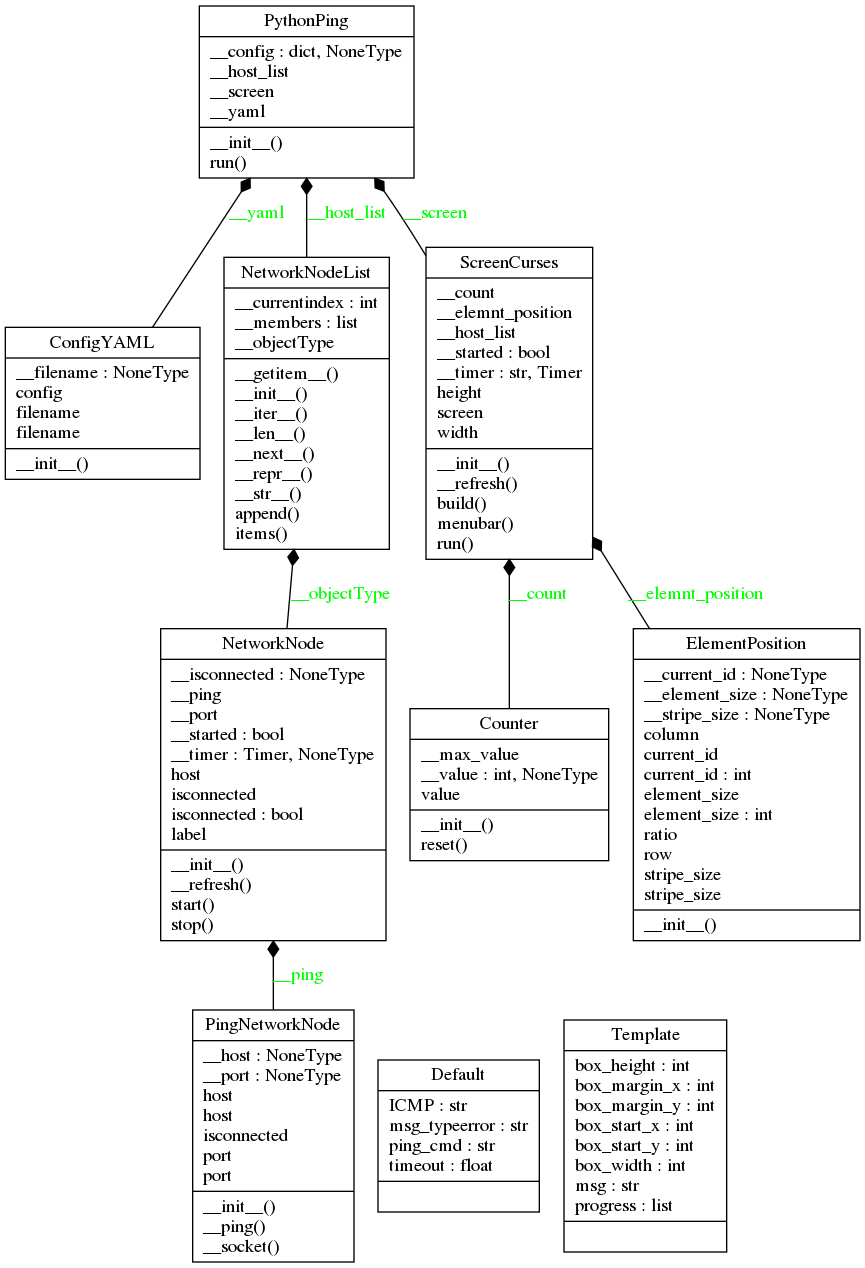
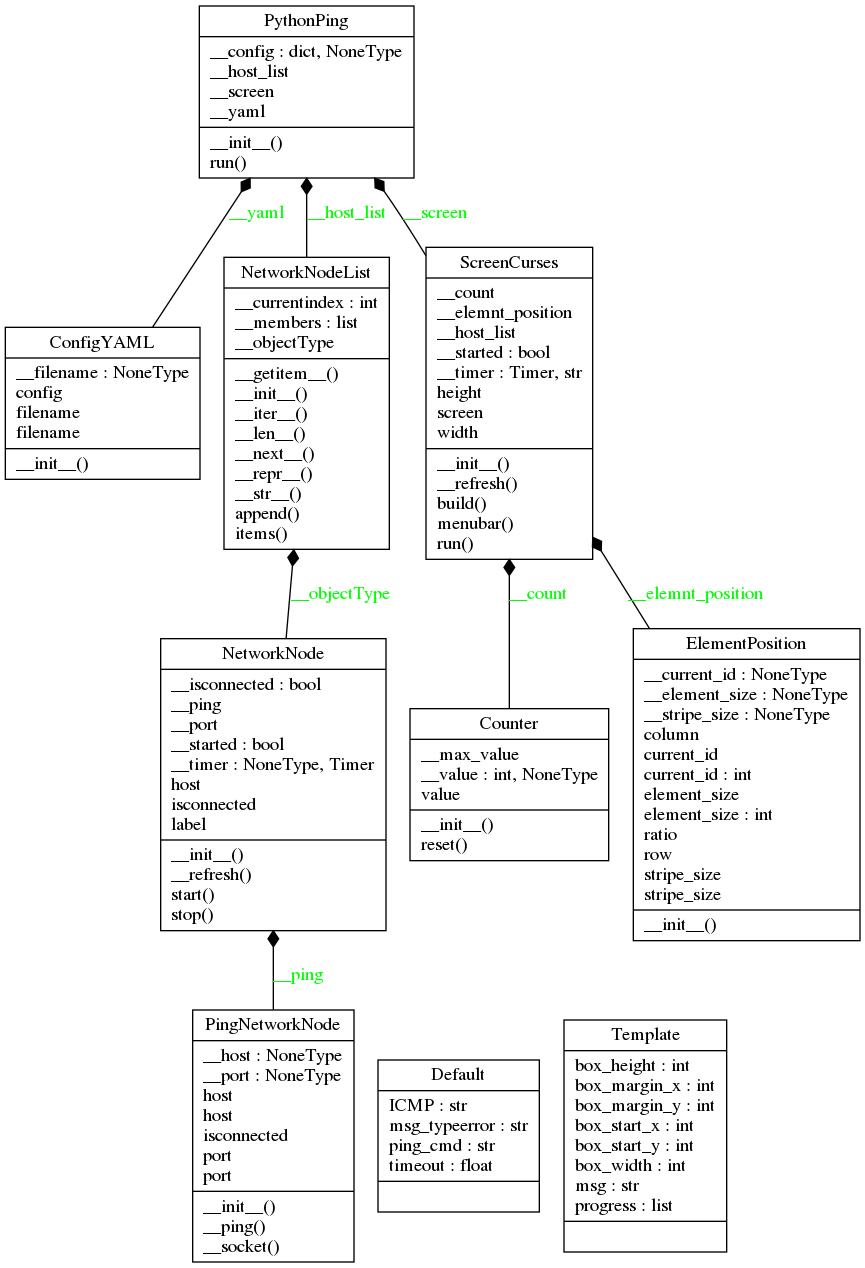
remove @isconnected.setter

Changed region(s): [[0.1873, 0.4921, 0.437, 0.7382], [0.5931, 0.2768, 0.6555, 0.3076], [0.3121, 0.7382, 0.3434, 0.7689]]

diff --git a/pytping/netnode.py b/pytping/netnode.py
@@ -24,9 +24,8 @@ class NetworkNode(object):
     """
     def __init__(self, label, host, port):
         self.__timer = None
-        self.__isconnected = None
+        self.__isconnected = False
         self.__started = False
-        self.isconnected = False
         self.label = label
         self.host = host
         self.__ping = PingNetworkNode(host, port)
@@ -40,14 +39,10 @@ class NetworkNode(object):
         """
         return self.__isconnected
 
-    @isconnected.setter
-    def isconnected(self, value):
-        self.__isconnected = value
-
     def __refresh(self):
         if self.__started is not True:
             return
-        self.isconnected = self.__ping.isconnected
+        self.__isconnected = self.__ping.isconnected
         self.__timer = Timer(2, self.__refresh)
         self.__timer.start()
 

diff --git a/README.md b/README.md
@@ -464,8 +464,6 @@ Define a network node :
 ```python
 @property
 def NetworkNode.isconnected(self):
-@isconnected.setter
-def NetworkNode.isconnected(self, value):
 
 ```
 > <br />
